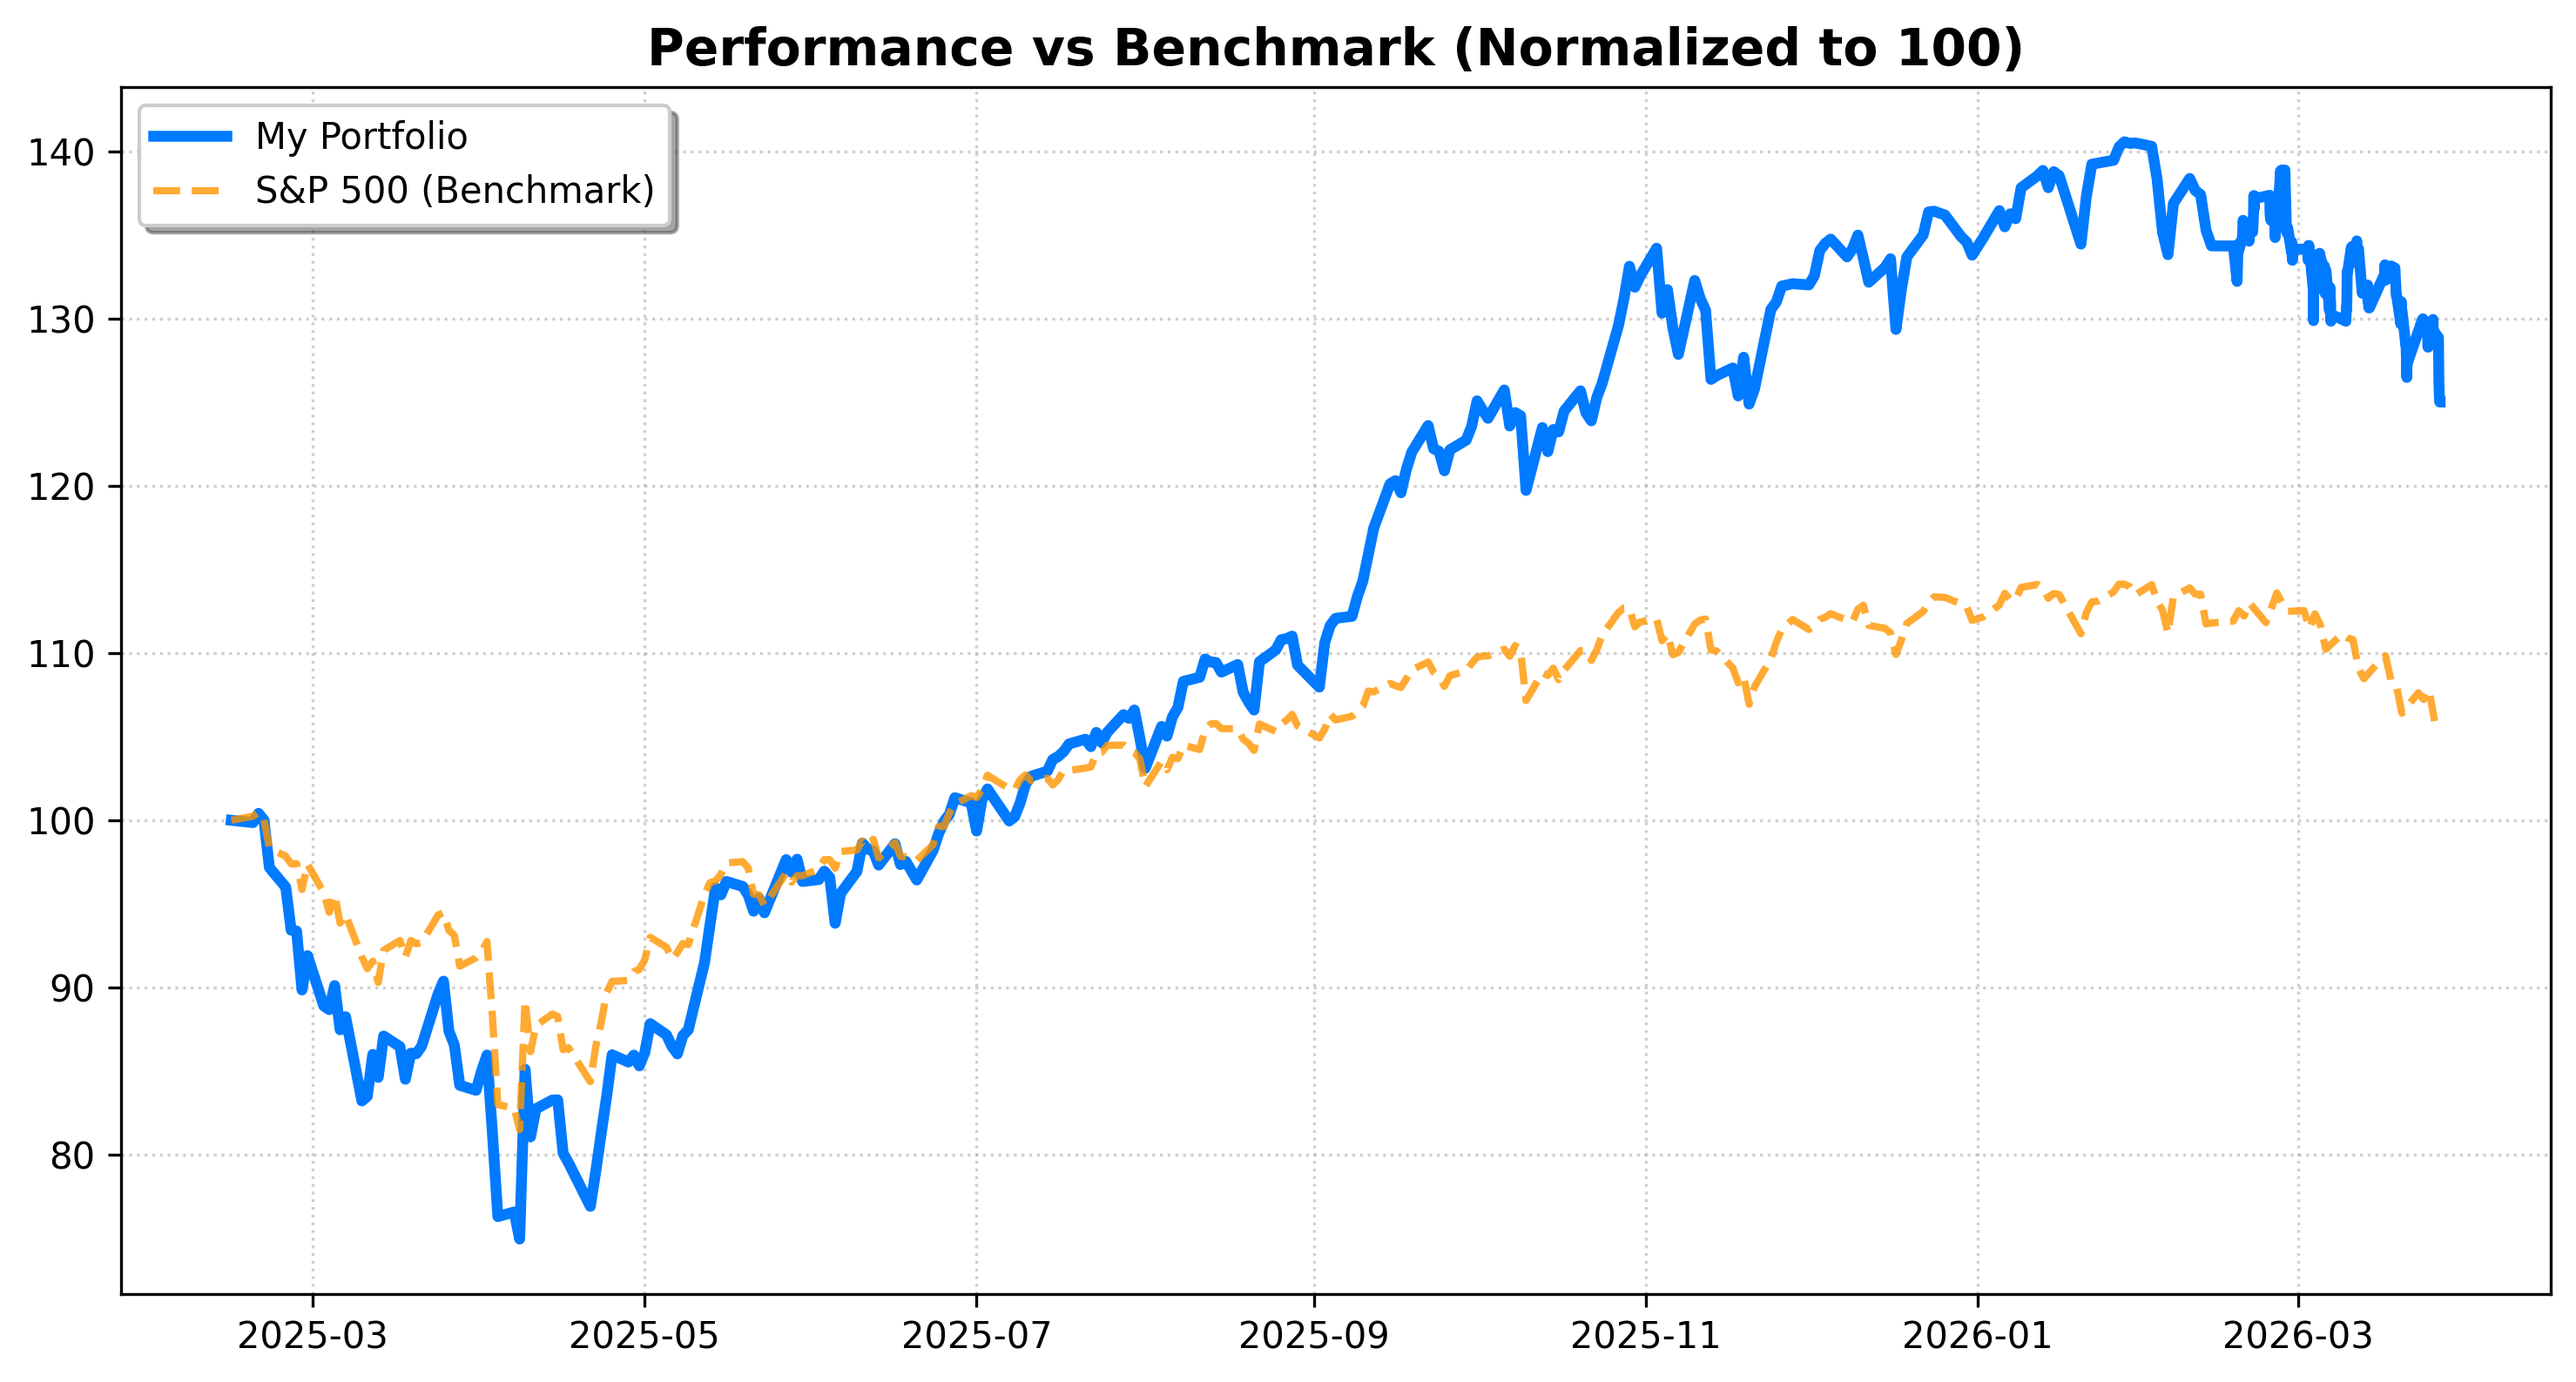
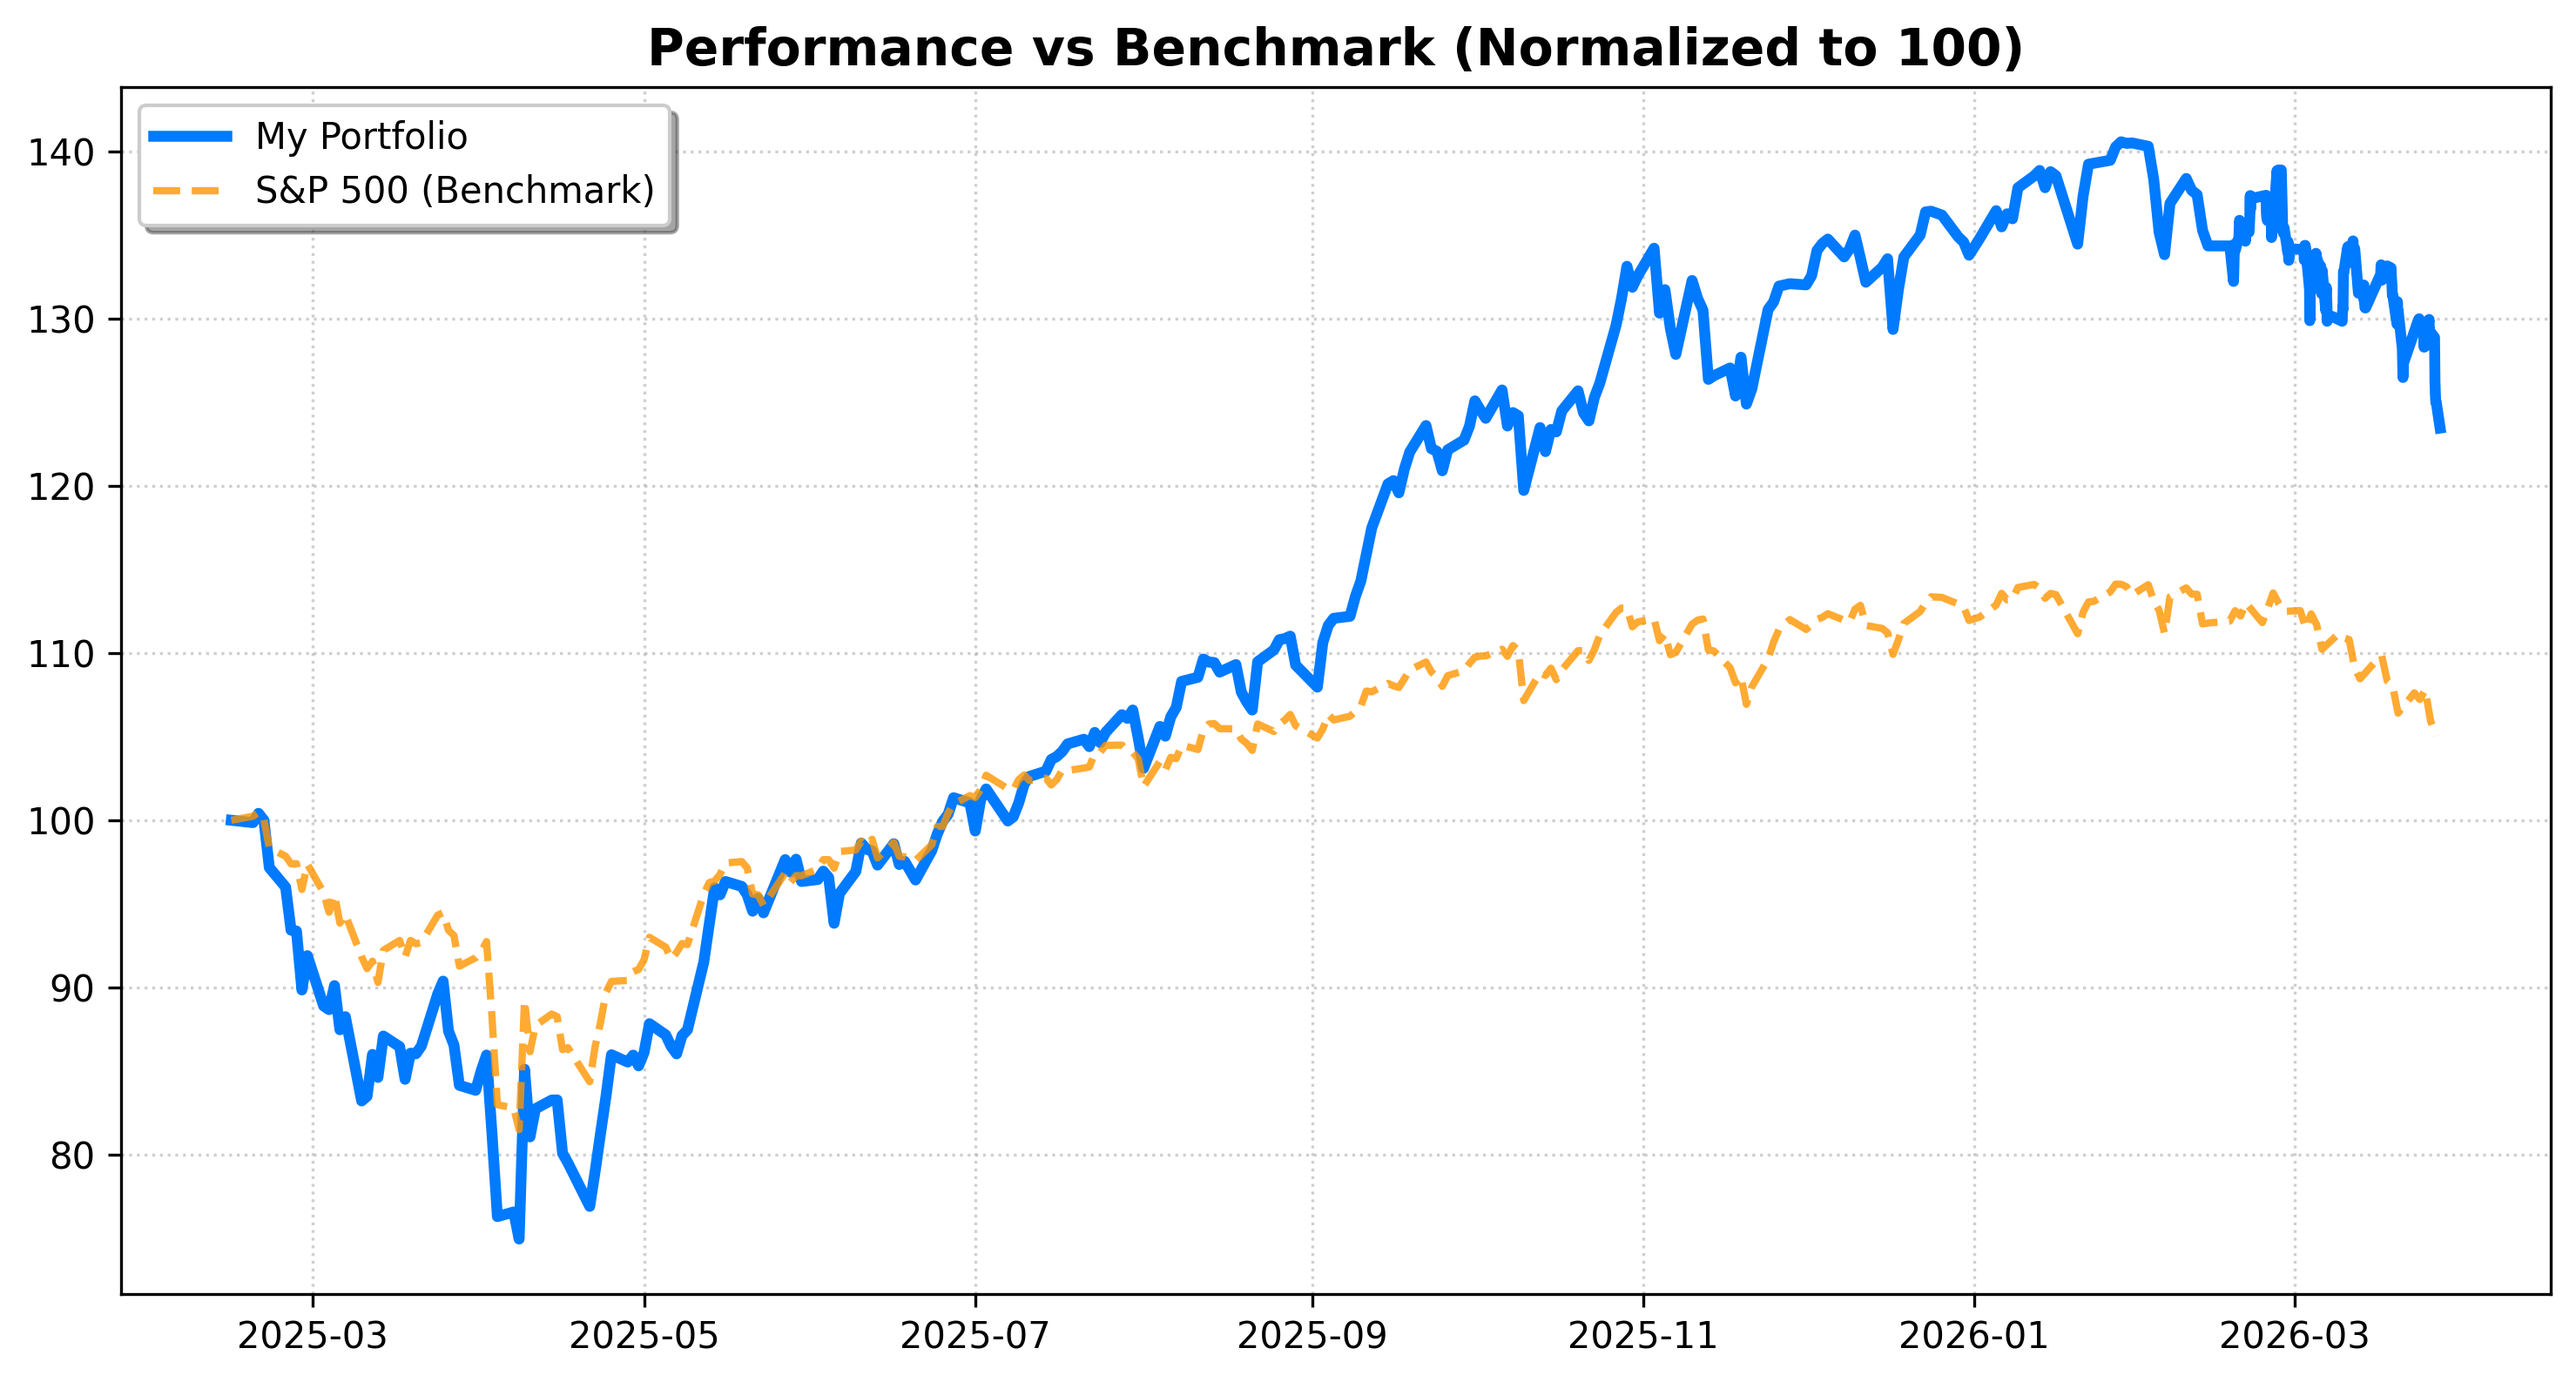
System Run: Analytics & Archive Update [skip ci]

diff --git a/README.md b/README.md
@@ -1,23 +1,23 @@
 # 📊 Portfolio Dashboard | מעקב תיק השקעות
-**Last Update:** 27/03/2026 00:37 | **USD/ILS:** ₪3.130
+**Last Update:** 27/03/2026 17:57 | **USD/ILS:** ₪3.151
 
 ## 💰 Portfolio Summary | סיכום התיק
 | Metric | Value | נתון |
 | :--- | :--- | :--- |
-| **Current Value** | `₪155,816` | **שווי נוכחי** |
-| **Total Invested** | `₪131,471` | **סך השקעה** |
-| **Total Profit/Loss** | `+18.52%` (₪24,345) | **רווח/הפסד כולל** |
-| **Daily Change** | `-3.22%` | **שינוי יומי** |
+| **Current Value** | `₪154,910` | **שווי נוכחי** |
+| **Total Invested** | `₪132,357` | **סך השקעה** |
+| **Total Profit/Loss** | `+17.04%` (₪22,554) | **רווח/הפסד כולל** |
+| **Daily Change** | `-4.21%` | **שינוי יומי** |
 
 ## 📜 Holdings | פירוט החזקות
 | Ticker | Shares | Avg. Cost | Current Price | P&L % | P&L ILS |
 | :--- | :--- | :--- | :--- | :--- | :--- |
-| GOOGL | 45 | $181.15 | $280.95 | 🟢 +55.09% | ₪14,058 |
-| ASML | 4 | $934.51 | $1,329.83 | 🟢 +42.30% | ₪4,950 |
-| XOM | 2 | $126.08 | $165.38 | 🟢 +31.17% | ₪246 |
-| NVDA | 57 | $148.62 | $171.23 | 🟢 +15.21% | ₪4,034 |
-| TSLA | 20 | $436.45 | $372.24 | 🔴 -14.71% | ₪-4,020 |
-| VOO | 24 | $527.38 | $594.95 | 🟢 +12.81% | ₪5,076 |
+| GOOGL | 45 | $181.15 | $278.80 | 🟢 +53.91% | ₪13,848 |
+| ASML | 4 | $934.51 | $1,312.91 | 🟢 +40.49% | ₪4,770 |
+| XOM | 2 | $126.08 | $170.09 | 🟢 +34.91% | ₪277 |
+| NVDA | 57 | $148.62 | $168.38 | 🟢 +13.30% | ₪3,549 |
+| TSLA | 20 | $436.45 | $365.07 | 🔴 -16.35% | ₪-4,499 |
+| VOO | 24 | $527.38 | $588.30 | 🟢 +11.55% | ₪4,608 |
 
 ## 📈 Charts | גרפים
 ![Performance](./data_hub/portfolio_performance.png)
